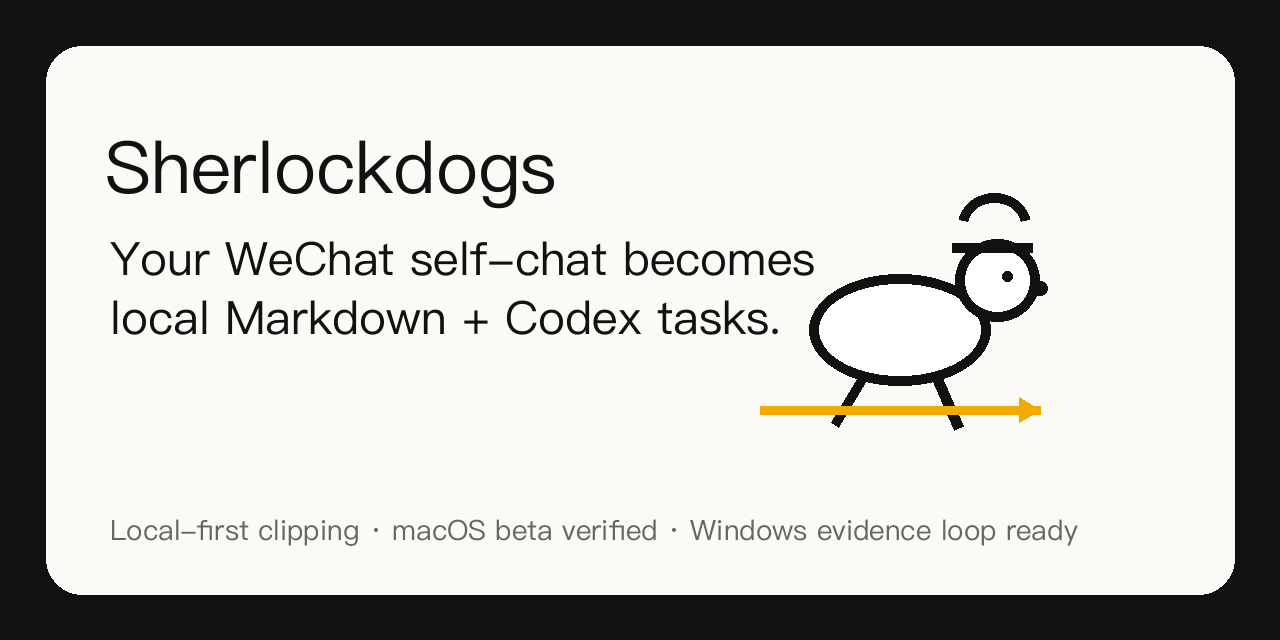
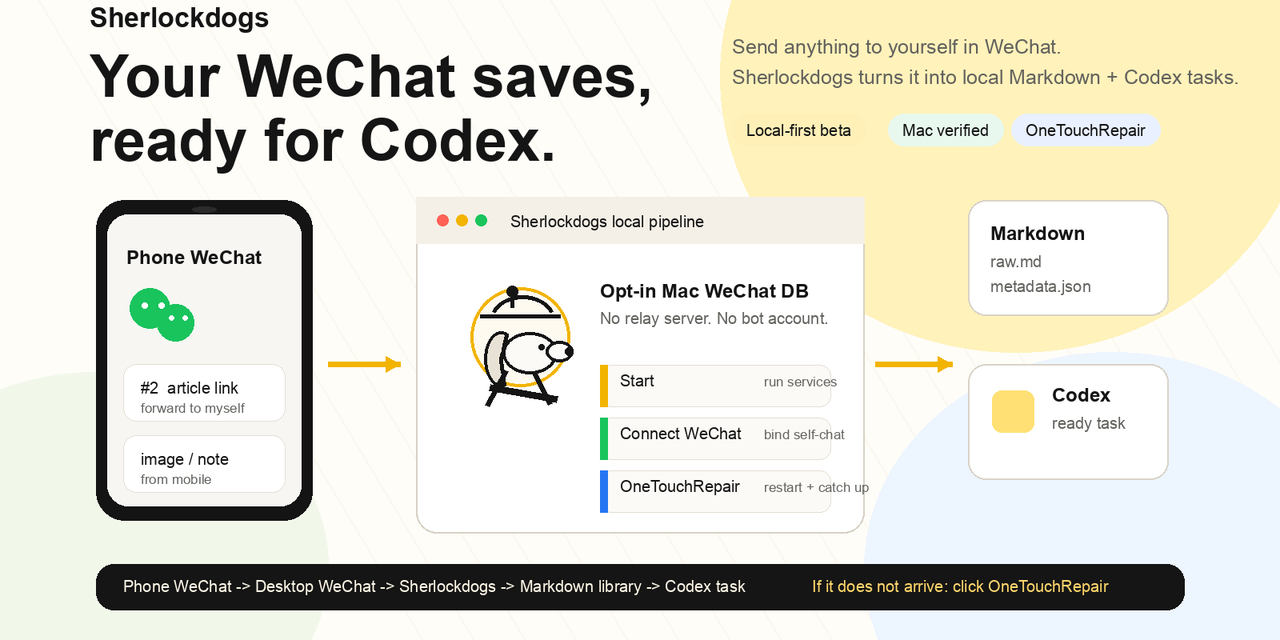
Polish GitHub README hero

diff --git a/scripts/render_github_hero.py b/scripts/render_github_hero.py
@@ -1,0 +1,196 @@
+#!/usr/bin/env python3
+"""Render GitHub README hero assets for Sherlockdogs."""
+
+from __future__ import annotations
+
+from pathlib import Path
+
+from PIL import Image, ImageDraw, ImageFont
+
+
+ROOT = Path(__file__).resolve().parents[1]
+ASSET_DIR = ROOT / "docs" / "assets"
+W, H = 1600, 900
+
+
+def font(size: int, weight: str = "regular") -> ImageFont.FreeTypeFont:
+    candidates = {
+        "bold": [
+            "/System/Library/Fonts/Supplemental/Arial Bold.ttf",
+            "/System/Library/Fonts/Supplemental/Helvetica Bold.ttf",
+            "/Library/Fonts/Arial Bold.ttf",
+        ],
+        "regular": [
+            "/System/Library/Fonts/Supplemental/Arial.ttf",
+            "/System/Library/Fonts/Helvetica.ttc",
+            "/Library/Fonts/Arial.ttf",
+        ],
+    }
+    for path in candidates[weight]:
+        if Path(path).exists():
+            return ImageFont.truetype(path, size=size)
+    return ImageFont.load_default()
+
+
+F = {
+    "hero": font(74, "bold"),
+    "brand": font(34, "bold"),
+    "h2": font(32, "bold"),
+    "h3": font(24, "bold"),
+    "body": font(25),
+    "small": font(20),
+    "tiny": font(17),
+}
+
+
+INK = "#151515"
+MUTED = "#63625e"
+YELLOW = "#f2b400"
+YELLOW_DARK = "#d89400"
+GREEN = "#19c45d"
+PURPLE = "#7657e6"
+BLUE = "#2576f2"
+PAPER = "#fffdf8"
+LINE = "#ddd8cd"
+
+
+def rounded(draw: ImageDraw.ImageDraw, xy, r, fill, outline=None, width=1):
+    draw.rounded_rectangle(xy, radius=r, fill=fill, outline=outline, width=width)
+
+
+def text(draw, xy, value, fill=INK, font_key="body", anchor=None):
+    draw.text(xy, value, fill=fill, font=F[font_key], anchor=anchor)
+
+
+def pill(draw, xy, label, fill, fg=INK):
+    x, y = xy
+    bbox = draw.textbbox((0, 0), label, font=F["small"])
+    tw = bbox[2] - bbox[0]
+    rounded(draw, (x, y, x + tw + 36, y + 40), 20, fill=fill)
+    text(draw, (x + 18, y + 9), label, fg, "small")
+    return x + tw + 46
+
+
+def arrow(draw, start, end, color=YELLOW, width=6):
+    draw.line([start, end], fill=color, width=width)
+    x2, y2 = end
+    draw.polygon([(x2, y2), (x2 - 18, y2 - 10), (x2 - 18, y2 + 10)], fill=color)
+
+
+def draw_phone(draw):
+    x, y, w, h = 120, 330, 270, 400
+    rounded(draw, (x, y, x + w, y + h), 36, "#141414")
+    rounded(draw, (x + 14, y + 18, x + w - 14, y + h - 18), 26, "#f7f6f2")
+    draw.ellipse((x + 120, y + 8, x + 150, y + 15), fill="#2b2b2b")
+    text(draw, (x + 38, y + 58), "Phone WeChat", INK, "h3")
+    # WeChat icon
+    draw.ellipse((x + 42, y + 110, x + 92, y + 160), fill=GREEN)
+    draw.ellipse((x + 76, y + 130, x + 122, y + 176), fill=GREEN)
+    draw.ellipse((x + 57, y + 128, x + 64, y + 135), fill="white")
+    draw.ellipse((x + 78, y + 128, x + 85, y + 135), fill="white")
+    draw.ellipse((x + 91, y + 144, x + 97, y + 150), fill="white")
+    draw.ellipse((x + 108, y + 144, x + 114, y + 150), fill="white")
+    rounded(draw, (x + 34, y + 205, x + w - 34, y + 276), 16, "white", "#e3dfd6")
+    text(draw, (x + 56, y + 223), "#2  article link", INK, "small")
+    text(draw, (x + 56, y + 250), "forward to myself", MUTED, "tiny")
+    rounded(draw, (x + 34, y + 294, x + w - 34, y + 365), 16, "white", "#e3dfd6")
+    text(draw, (x + 56, y + 312), "image / note", INK, "small")
+    text(draw, (x + 56, y + 339), "from mobile", MUTED, "tiny")
+
+
+def draw_workspace(draw):
+    x, y, w, h = 520, 326, 560, 420
+    rounded(draw, (x, y, x + w, y + h), 26, "#ffffff", "#d7d1c5", 2)
+    draw.rectangle((x, y, x + w, y + 58), fill="#f4f0e7")
+    draw.ellipse((x + 26, y + 22, x + 40, y + 36), fill="#ff6257")
+    draw.ellipse((x + 50, y + 22, x + 64, y + 36), fill=YELLOW)
+    draw.ellipse((x + 74, y + 22, x + 88, y + 36), fill=GREEN)
+    text(draw, (x + 118, y + 19), "Sherlockdogs local pipeline", INK, "small")
+    # dog badge
+    cx, cy = x + 130, y + 175
+    draw.ellipse((cx - 62, cy - 62, cx + 62, cy + 62), fill="#fffaf0", outline=YELLOW, width=4)
+    draw.pieslice((cx - 45, cy - 7, cx - 3, cy + 62), 78, 292, fill="#e8e2d6", outline=INK, width=4)
+    draw.ellipse((cx - 22, cy - 6, cx + 46, cy + 46), fill="#fbfaf6", outline=INK, width=4)
+    draw.ellipse((cx + 32, cy + 5, cx + 66, cy + 31), fill="#fbfaf6", outline=INK, width=4)
+    draw.ellipse((cx + 56, cy + 13, cx + 66, cy + 23), fill=INK)
+    draw.ellipse((cx + 23, cy + 9, cx + 30, cy + 16), fill=INK)
+    draw.line((cx - 18, cy + 42, cx - 42, cy + 86), fill=INK, width=6)
+    draw.line((cx + 16, cy + 43, cx + 37, cy + 84), fill=INK, width=6)
+    draw.line((cx - 38, cy + 63, cx + 46, cy + 78), fill=INK, width=9)
+    draw.arc((cx - 38, cy - 52, cx + 44, cy + 12), 202, 338, fill=INK, width=5)
+    draw.line((cx - 50, cy - 26, cx + 50, cy - 26), fill=INK, width=5)
+    draw.line((cx - 10, cy - 55, cx - 10, cy - 37), fill=INK, width=5)
+    draw.ellipse((cx - 17, cy - 64, cx - 3, cy - 50), fill=INK)
+    text(draw, (x + 230, y + 104), "Opt-in Mac WeChat DB", INK, "h3")
+    text(draw, (x + 230, y + 140), "No relay server. No bot account.", MUTED, "small")
+    # service cards
+    cards = [
+        (x + 230, y + 210, "Start", "run services", YELLOW),
+        (x + 230, y + 276, "Connect WeChat", "bind self-chat", GREEN),
+        (x + 230, y + 342, "OneTouchRepair", "restart + catch up", BLUE),
+    ]
+    for x1, y1, title, desc, color in cards:
+        rounded(draw, (x1, y1, x + w - 42, y1 + 52), 14, "#fbfaf6", "#e4ded3")
+        draw.rectangle((x1, y1, x1 + 9, y1 + 52), fill=color)
+        text(draw, (x1 + 25, y1 + 8), title, INK, "small")
+        text(draw, (x1 + 205, y1 + 11), desc, MUTED, "tiny")
+
+
+def draw_outputs(draw):
+    x, y = 1210, 330
+    rounded(draw, (x, y, x + 250, y + 144), 22, "#fff", "#d9d3c8", 2)
+    text(draw, (x + 28, y + 28), "Markdown", INK, "h3")
+    text(draw, (x + 28, y + 65), "raw.md", MUTED, "small")
+    text(draw, (x + 28, y + 96), "metadata.json", MUTED, "small")
+    rounded(draw, (x, y + 205, x + 250, y + 349), 22, "#fff", "#d9d3c8", 2)
+    rounded(draw, (x + 30, y + 238, x + 82, y + 290), 12, "#ffe074")
+    text(draw, (x + 105, y + 230), "Codex", INK, "h3")
+    text(draw, (x + 105, y + 267), "ready task", MUTED, "small")
+
+
+def render(path: Path, size=(W, H), crop=None):
+    img = Image.new("RGB", (W, H), PAPER)
+    draw = ImageDraw.Draw(img)
+    # background texture
+    for i in range(0, W, 32):
+        color = "#fbf8ef" if (i // 32) % 2 == 0 else "#fffdf8"
+        draw.line((i, 0, i + 540, H), fill=color, width=2)
+    draw.ellipse((900, -170, 1640, 520), fill="#fff2ba")
+    draw.ellipse((1080, 520, 1700, 1060), fill="#edf5ff")
+    draw.ellipse((-170, 545, 410, 1030), fill="#f1f8ea")
+
+    text(draw, (112, 83), "Sherlockdogs", INK, "brand")
+    text(draw, (112, 134), "Your WeChat saves,", INK, "hero")
+    text(draw, (112, 214), "ready for Codex.", INK, "hero")
+    text(draw, (915, 124), "Send anything to yourself in WeChat.", MUTED, "body")
+    text(draw, (915, 162), "Sherlockdogs turns it into local Markdown + Codex tasks.", MUTED, "body")
+    pill(draw, (915, 222), "Local-first beta", "#fff0b8")
+    x2 = pill(draw, (1110, 222), "Mac verified", "#e8f8ee")
+    pill(draw, (x2, 222), "OneTouchRepair", "#e9f0ff")
+
+    draw_phone(draw)
+    draw_workspace(draw)
+    draw_outputs(draw)
+    arrow(draw, (410, 535), (500, 535), YELLOW, 7)
+    arrow(draw, (1094, 535), (1190, 535), YELLOW, 7)
+
+    # footer strip
+    rounded(draw, (120, 785, 1480, 842), 22, "#151515")
+    text(draw, (154, 801), "Phone WeChat -> Desktop WeChat -> Sherlockdogs -> Markdown library -> Codex task", "#fff8e8", "small")
+    text(draw, (1015, 801), "If it does not arrive: click OneTouchRepair", "#ffd76a", "small")
+
+    if crop:
+        img = img.crop(crop)
+    if size != img.size:
+        img = img.resize(size, Image.Resampling.LANCZOS)
+    img.save(path, quality=95)
+
+
+def main() -> None:
+    ASSET_DIR.mkdir(parents=True, exist_ok=True)
+    render(ASSET_DIR / "sherlockdogs-hero.png")
+    render(ASSET_DIR / "social-preview.png", size=(1280, 640), crop=(0, 80, 1600, 880))
+
+
+if __name__ == "__main__":
+    main()

diff --git a/README.md b/README.md
@@ -1,29 +1,48 @@
-# Sherlockdogs
+<p align="center">
+  <img src="docs/assets/sherlockdogs-hero.png" alt="Sherlockdogs: send WeChat saves into local Markdown and Codex tasks" width="100%">
+</p>
 
-Forward to yourself. Turn WeChat self-chats into local Markdown and Codex tasks.
+<h1 align="center">Sherlockdogs</h1>
 
-![Sherlockdogs hero](docs/assets/sherlockdogs-hero.png)
+<p align="center">
+  Send anything to yourself in WeChat. Sherlockdogs turns it into local Markdown and Codex-ready tasks.
+</p>
+
+<p align="center">
+  <a href="releases/1.0-public-beta/">Download public beta</a>
+  ·
+  <a href="releases/1.0-public-beta/macos/Sherlockdogs-macos-alpha-1.0.0-alpha.3/START_HERE.md">macOS quick start</a>
+  ·
+  <a href="releases/1.0-public-beta/windows/Sherlockdogs-windows-alpha-1.0.0-alpha.2/START_HERE.md">Windows quick start</a>
+  ·
+  <a href="docs/architecture.md">Architecture</a>
+</p>
+
+## What It Does
 
 Sherlockdogs is a local-first clipping pipeline for people who save ideas on a phone, but actually work in Markdown, Obsidian, and Codex on a desktop.
 
-The public beta focuses on one practical path:
-
 ```text
-Phone WeChat -> Desktop WeChat -> Local WeChat DB -> Markdown -> Codex
+Phone WeChat -> Desktop WeChat -> Local WeChat DB -> Markdown library -> Codex task
 ```
 
-Obsidian is a recommended reader for the Markdown library, but it is not required. Sherlockdogs works as a folder-first local archive.
+No relay server. No bot account. No hosted inbox. The beta is built around your own desktop WeChat receiving messages you forwarded to yourself.
 
-## Quick Links
+## Public Beta
 
-| What | Link |
+| Platform | Best for | Current status |
+|---|---|---|
+| macOS | First beta users | Real self-chat -> local WeChat DB -> Markdown/Codex smoke passed |
+| Windows | Windows beta testers | Same product path is packaged; diagnostics export included |
+| iOS Shortcut / Inbox | Fallback only | Use when local WeChat DB access is not usable |
+
+| Download | Link |
 |---|---|
-| Public beta package | [releases/1.0-public-beta](releases/1.0-public-beta/) |
-| macOS beta folder | [macOS alpha.3](releases/1.0-public-beta/macos/Sherlockdogs-macos-alpha-1.0.0-alpha.3/) |
-| Windows beta folder | [Windows alpha.2](releases/1.0-public-beta/windows/Sherlockdogs-windows-alpha-1.0.0-alpha.2/) |
-| CLI quickstart | [QUICKSTART.md](QUICKSTART.md) |
-| Architecture | [docs/architecture.md](docs/architecture.md) |
-| Evidence plan | [docs/evidence-plan.md](docs/evidence-plan.md) |
+| Public beta folder | [releases/1.0-public-beta](releases/1.0-public-beta/) |
+| macOS alpha.3 | [Sherlockdogs-macos-alpha-1.0.0-alpha.3](releases/1.0-public-beta/macos/Sherlockdogs-macos-alpha-1.0.0-alpha.3/) |
+| Windows alpha.2 | [Sherlockdogs-windows-alpha-1.0.0-alpha.2](releases/1.0-public-beta/windows/Sherlockdogs-windows-alpha-1.0.0-alpha.2/) |
+
+No zip, dmg, tar, or installer archive is published for this beta. Download the platform folder as-is.
 
 ## Quick Start
 
@@ -42,6 +61,8 @@ Obsidian is a recommended reader for the Markdown library, but it is not require
 
 First launch may spend a few minutes installing Python dependencies. macOS may require right-click -> Open on the first launch.
 
+If a new WeChat item does not arrive on macOS, click `Sherlockdogs OneTouchRepair.app`. It restarts the local services, re-enables the background job, and catches up missed self-chat items.
+
 ## Features
 
 Status: `READY_FOR_PUBLIC_BETA`
@@ -55,16 +76,6 @@ Status: `READY_FOR_PUBLIC_BETA`
 | Obsidian reading | Ready | Uses plain files; Obsidian is optional |
 | iOS Shortcut / Inbox fallback | Fallback | For machines where DB access is not usable |
 | Windows evidence export | Ready | Helps debug real Windows machine failures |
-
-## Platform Status
-
-| Platform | Beta folder | Current status |
-|---|---|---|
-| macOS | [Sherlockdogs-macos-alpha-1.0.0-alpha.3](releases/1.0-public-beta/macos/Sherlockdogs-macos-alpha-1.0.0-alpha.3/) | Real self-chat -> local WeChat DB -> Markdown/Codex smoke passed |
-| Windows | [Sherlockdogs-windows-alpha-1.0.0-alpha.2](releases/1.0-public-beta/windows/Sherlockdogs-windows-alpha-1.0.0-alpha.2/) | Same product path is packaged; first real Windows self-chat smoke still needed |
-| iOS Shortcut / Inbox | Included as fallback | Optional fallback when local DB path is not usable |
-
-No zip, dmg, tar, or installer archive is published for this beta. Use the whole platform folder as-is.
 
 ## Command Levels
 